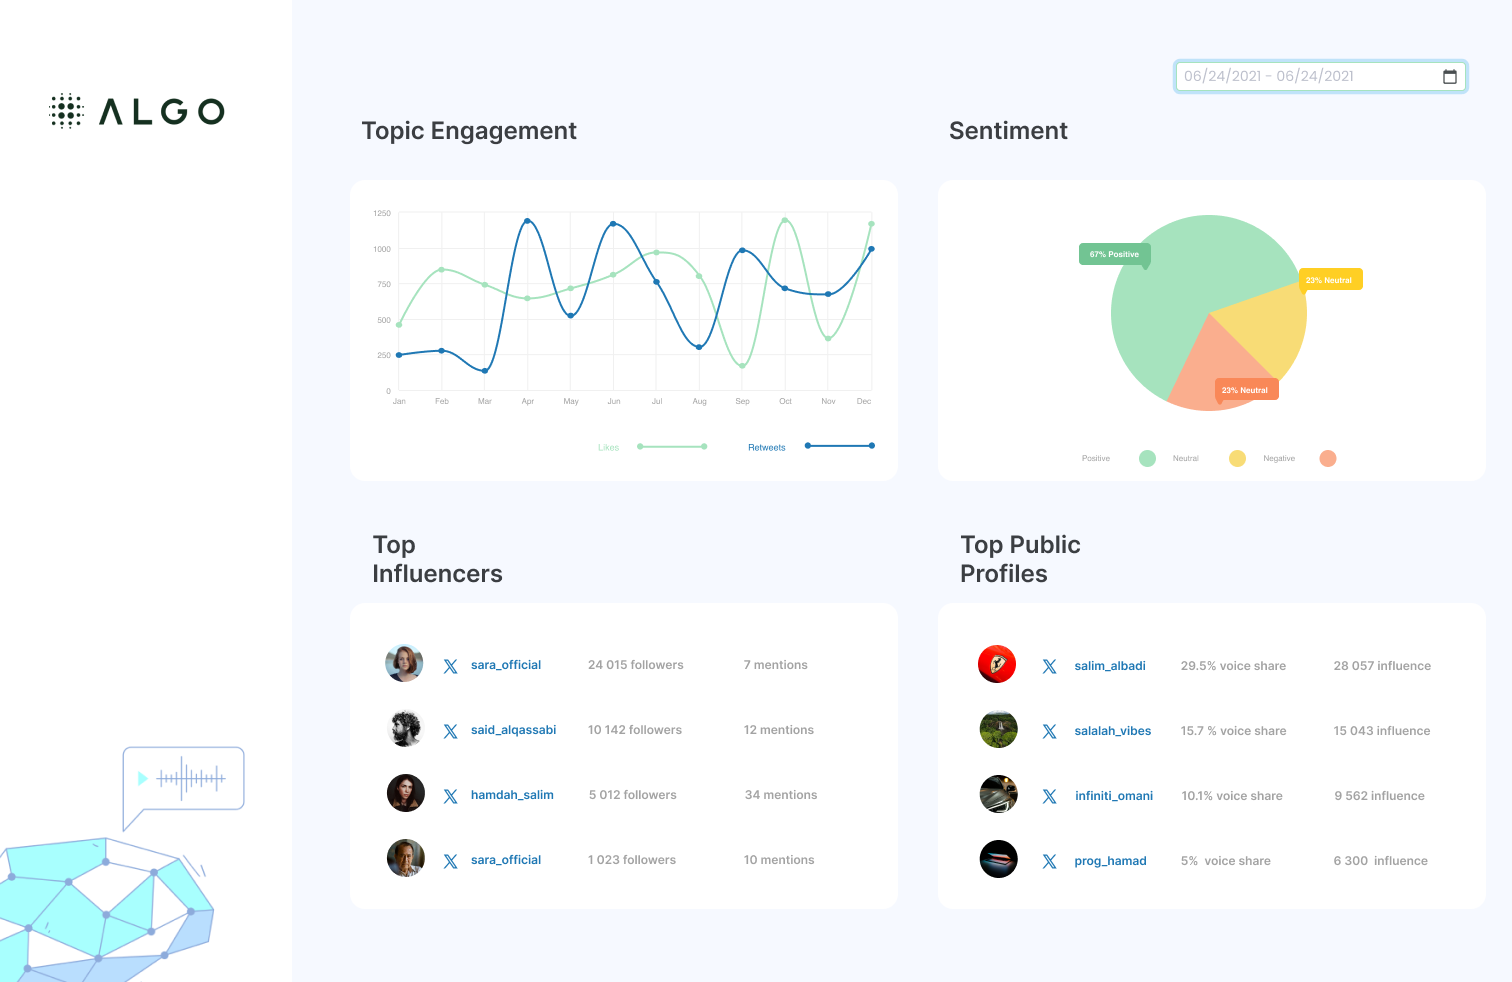
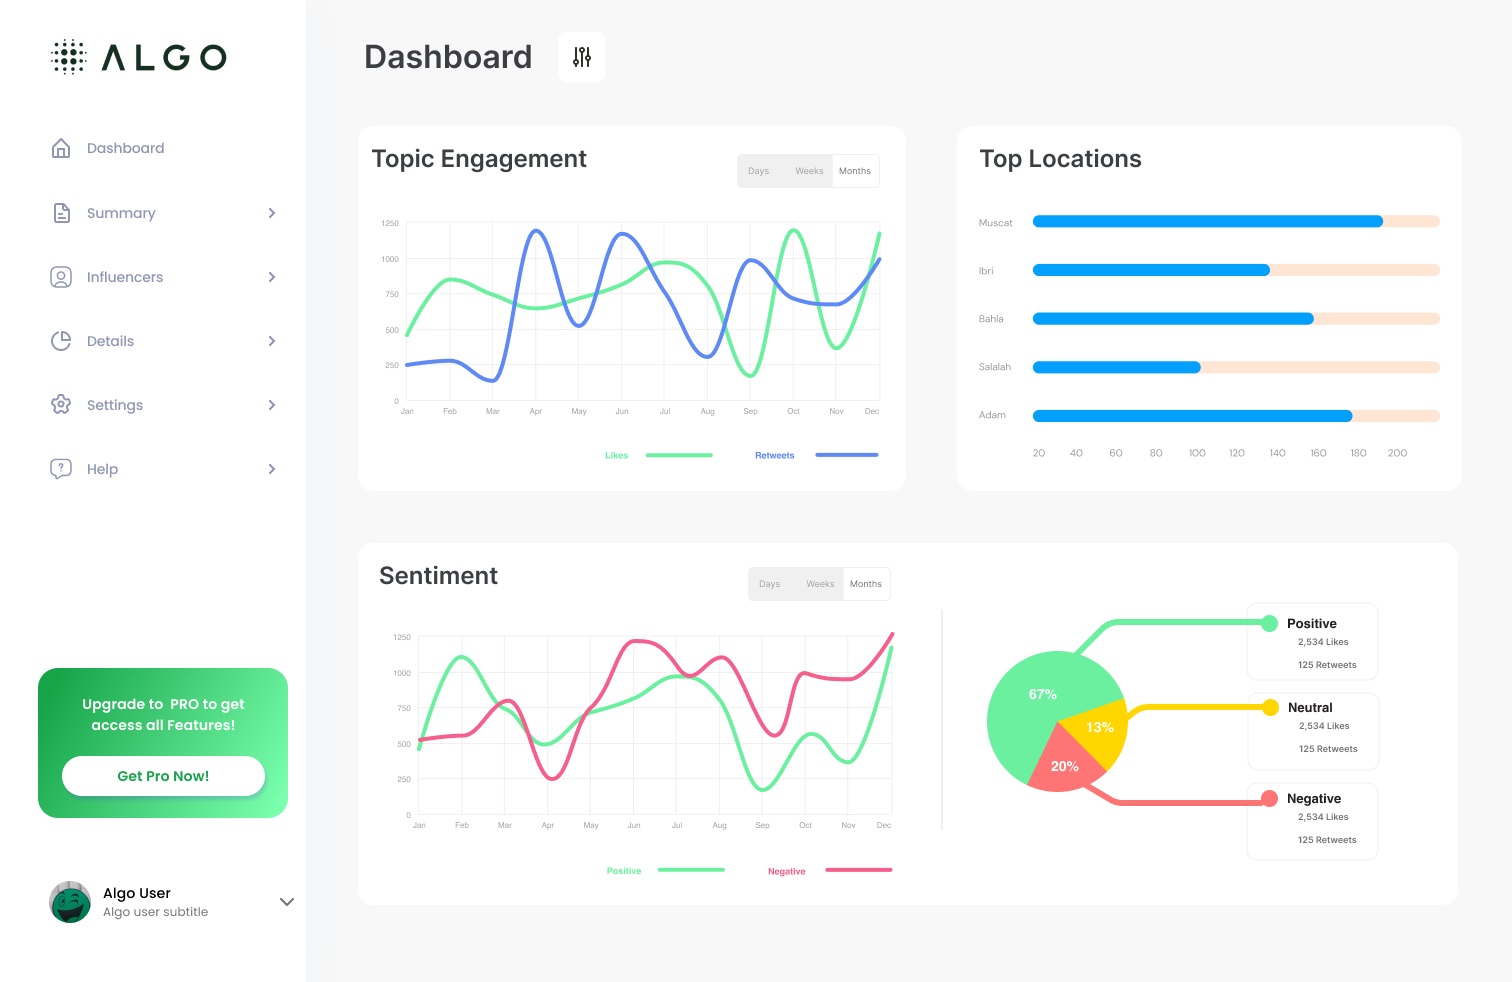
added new images of the new design

diff --git a/components/zigzag.tsx b/components/zigzag.tsx
@@ -1,10 +1,10 @@
 import Image from 'next/image'
 
-import FeatImage01 from '@/public/images/features-03-image-01.png'
-import FeatImage02 from '@/public/images/features-03-image-02.png'
-import FeatImage03 from '@/public/images/features-03-image-03.png'
+import FeatImage01 from '@/public/images/New Images/Topic Engagement.png'
+import FeatImage02 from '@/public/images/New Images/top influencers.png'
+import FeatImage03 from '@/public/images/New Images/Sentiment.png'
 import FeatImage04 from '@/public/images/features-03-image-04.png'
-import FeatImage05 from '@/public/images/features-03-image-05.png'
+import FeatImage05 from '@/public/images/New Images/Top Words.png'
 import FeatImage06 from '@/public/images/features-03-image-06.png'
 
 export default function Zigzag() {
